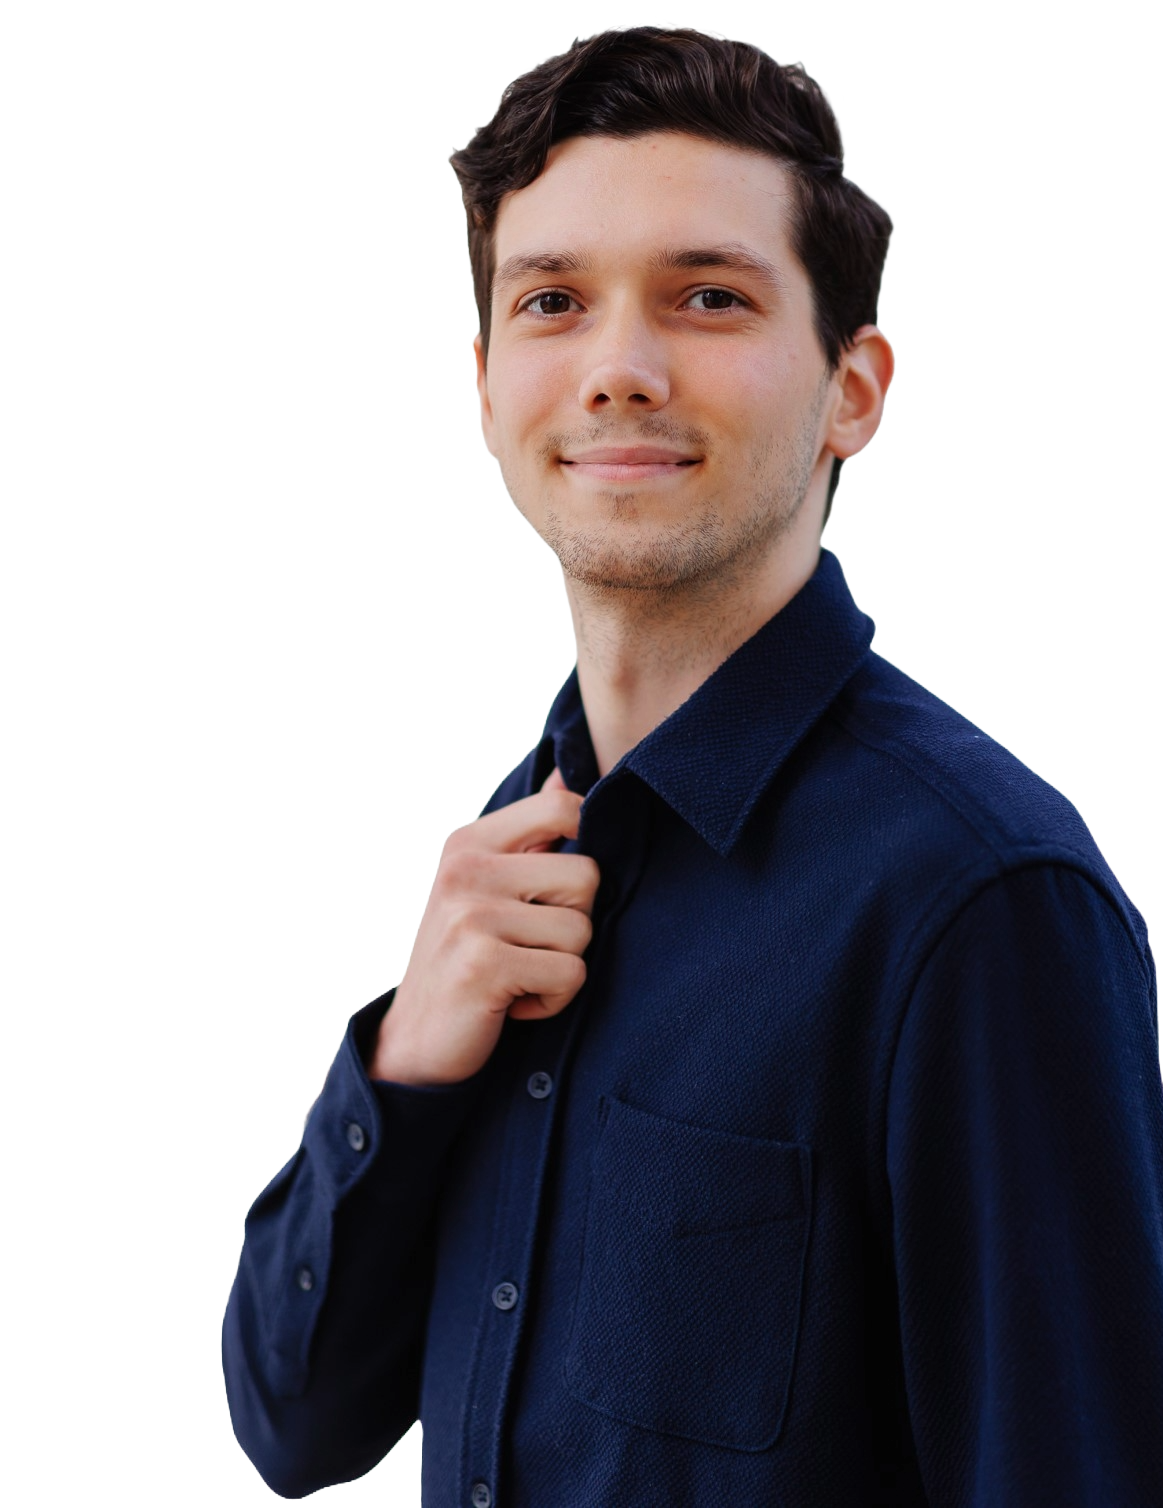
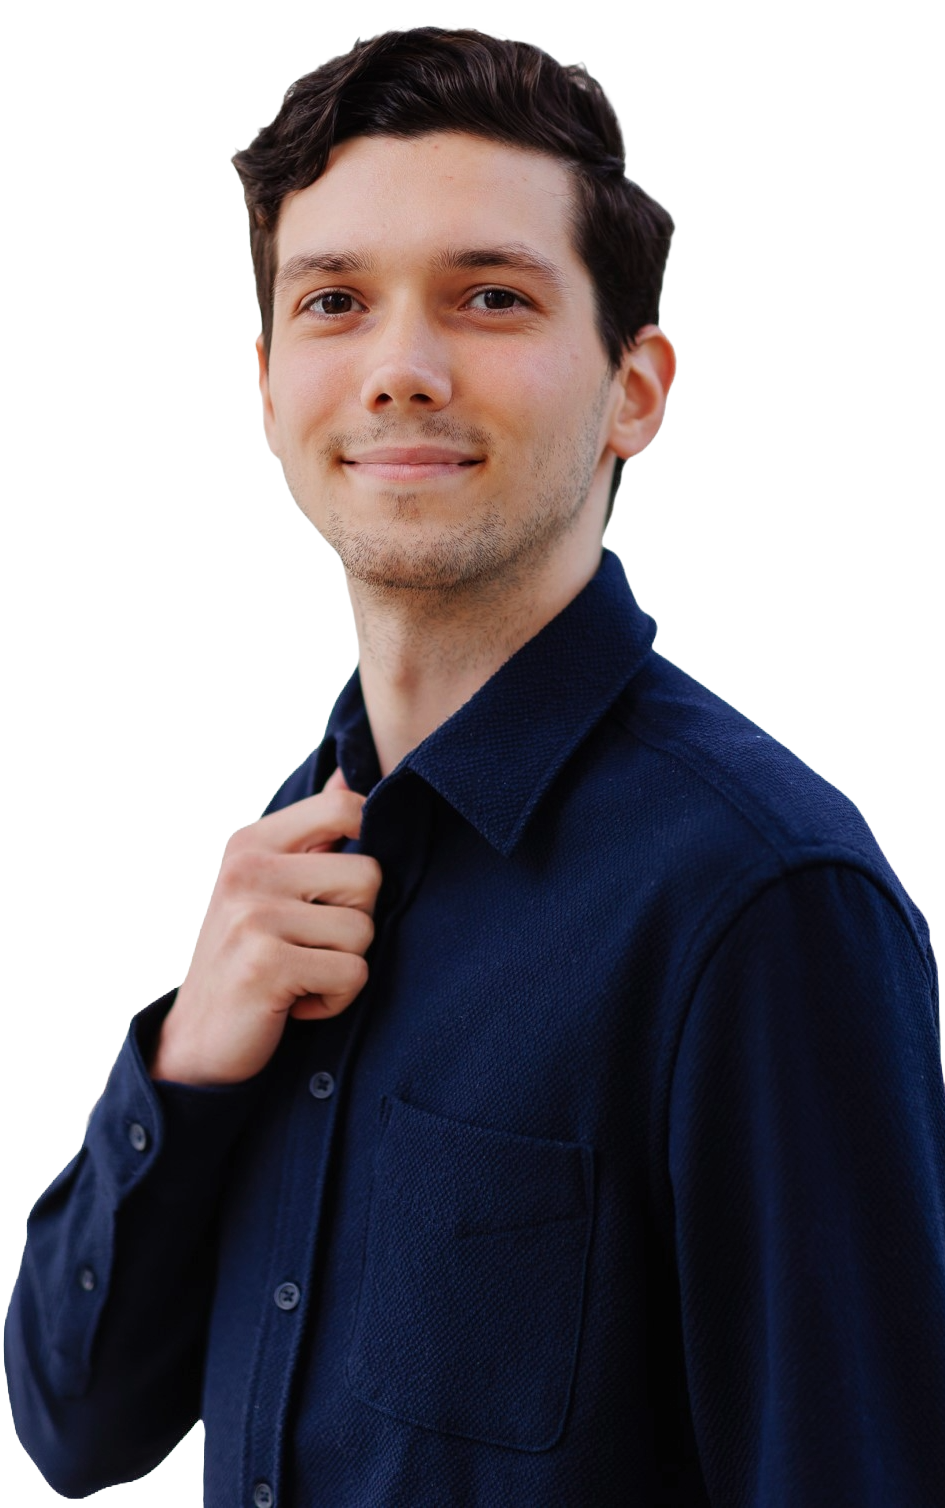
fixed the responsive design

diff --git a/src/components/Hero.tsx b/src/components/Hero.tsx
@@ -37,7 +37,7 @@ const Hero = () => {
                   Under Babeș-Bolyai University
                 </p>
                 <em className="block pt-[10px] text-sm">
-                  Bachelor’s Degree in Mathematics
+                  Bachelor in Mathematics
                 </em>
               </div>
               <div className="flex flex-col items-end">
@@ -51,13 +51,13 @@ const Hero = () => {
             </div>
           </div>
         </div>
-        <div className="shrink-0 max-sm:pt-[25px]">
+        <div className="shrink-0 max-sm:pt-[20px]">
           <img
             src="/images/professional-profile.png"
-            width={145}
+            width={140}
             height="auto"
             alt="Profile picture"
-            className="mb-[2px]"
+            className="mx-auto mb-[2px]"
           />
           <em className="rounded-full border px-[10px] py-[4px] font-extralight">
             Full Stack Developer
